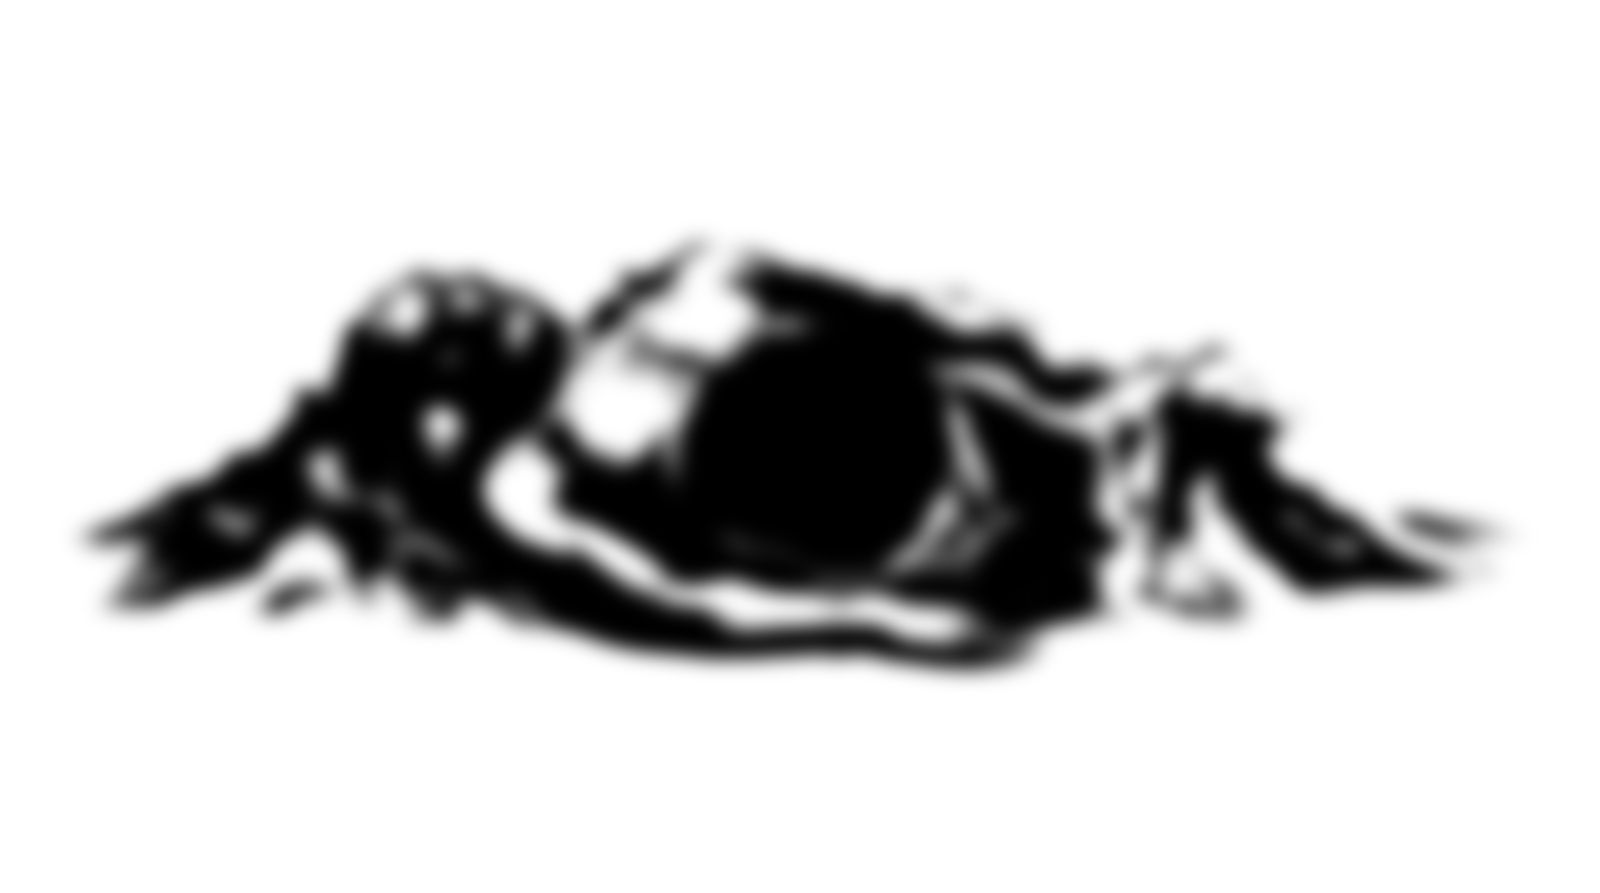
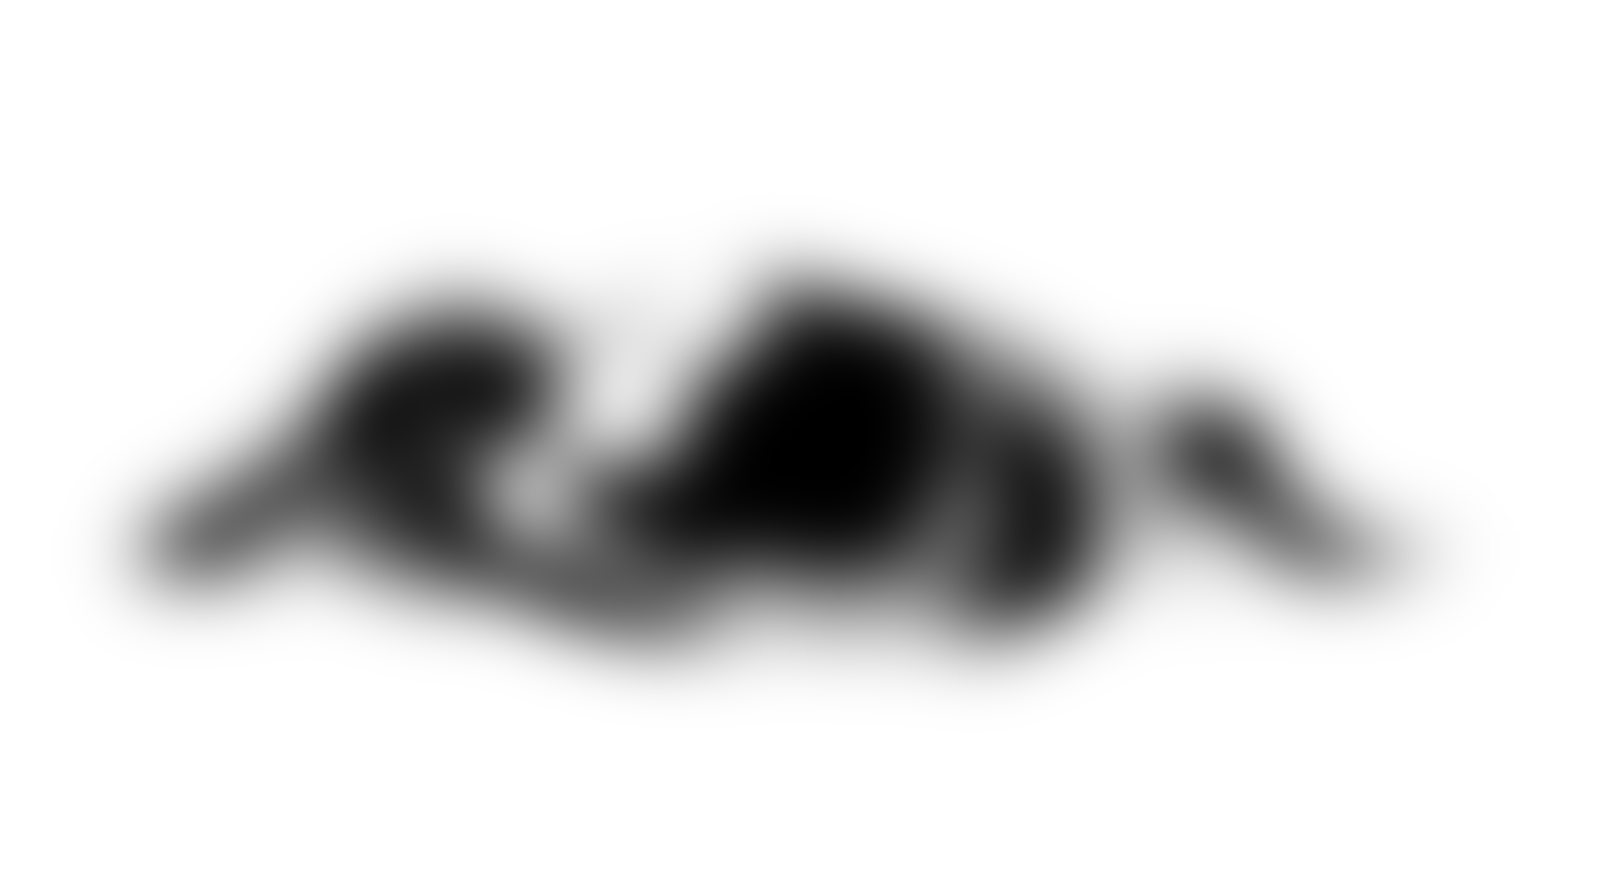
Náhled obrázků: v tmavém motivu pozvolný přechod okraje a ztlumený papír
Claude-Session: https://claude.ai/code/session_01B7obWNd8t3eyi15XpW3dtB

Changed region(s): [[0.0312, 0.2721, 0.9375, 0.7861]]

diff --git a/src/styles/essay.css b/src/styles/essay.css
@@ -823,6 +823,7 @@ html.pv-fresco .essay-hero img {
 html.pv-fresco[data-theme='dark'] .essay-hero img {
   -webkit-mask-image: var(--pv-mask-ink, var(--pv-mask));
   mask-image: var(--pv-mask-ink, var(--pv-mask));
+  filter: brightness(0.8);  /* krémový papír v noci nesvítí */
 }
 
 /* Pod citátem větší: na telefonu přes celou šířku, na počítači přesah do volného místa vpravo. */

diff --git a/scripts/ink-masks.py b/scripts/ink-masks.py
@@ -24,12 +24,12 @@ for f in sorted(glob.glob(os.path.join(src, '[0-9]*.jpg'))):
     if paper < 0.78 or (border > paper - 0.08).mean() < 0.6:
         continue  # bez papírového okraje
     ink = np.clip((paper - a) / 0.22, 0, 1)
-    k = Image.fromarray((ink * 255).astype(np.uint8)).filter(ImageFilter.GaussianBlur(w / 160))
+    k = Image.fromarray((ink * 255).astype(np.uint8)).filter(ImageFilter.GaussianBlur(w / 60))
     s = np.asarray(k, np.float32) / 255
-    alpha = smooth(0.30, 0.75, s)  # okraj masky uvnitř tuše, papír kolem zmizí
+    alpha = smooth(0.25, 0.85, s) ** 1.6  # dlouhý pozvolný přechod, okraj se ztrácí uvnitř tuše
     u = np.linspace(0, 1, w)[None, :]; v = np.linspace(0, 1, h)[:, None]
-    alpha *= smooth(0, 0.04, np.minimum(u, 1 - u)) * smooth(0, 0.06, np.minimum(v, 1 - v))
-    m = Image.fromarray((alpha * 255).astype(np.uint8), 'L').filter(ImageFilter.GaussianBlur(w / 180))
+    alpha *= smooth(0, 0.12, np.minimum(u, 1 - u)) * smooth(0, 0.16, np.minimum(v, 1 - v))
+    m = Image.fromarray((alpha * 255).astype(np.uint8), 'L').filter(ImageFilter.GaussianBlur(w / 50))
     o = Image.new('LA', (w, h), 0); o.putalpha(m)
     name = os.path.basename(f).replace('.jpg', '.png')
     o.save(os.path.join(out, name), optimize=True)
